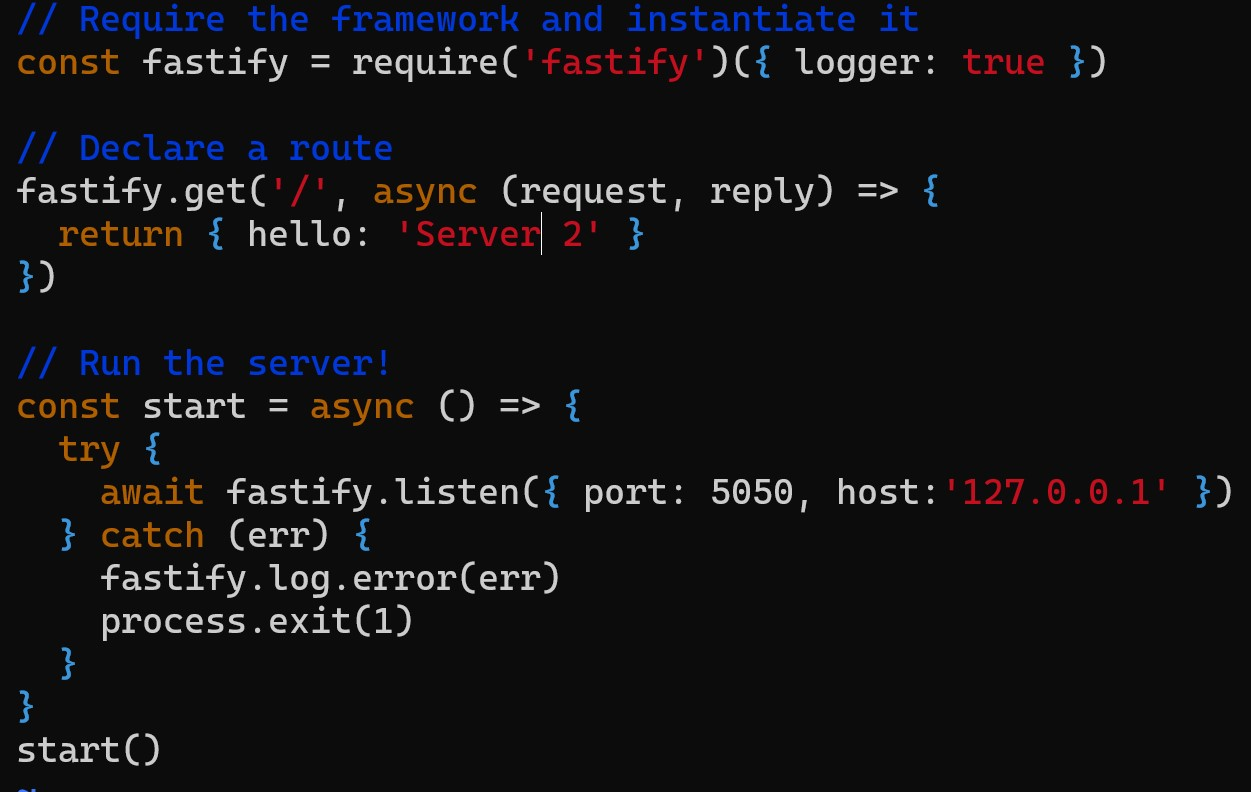
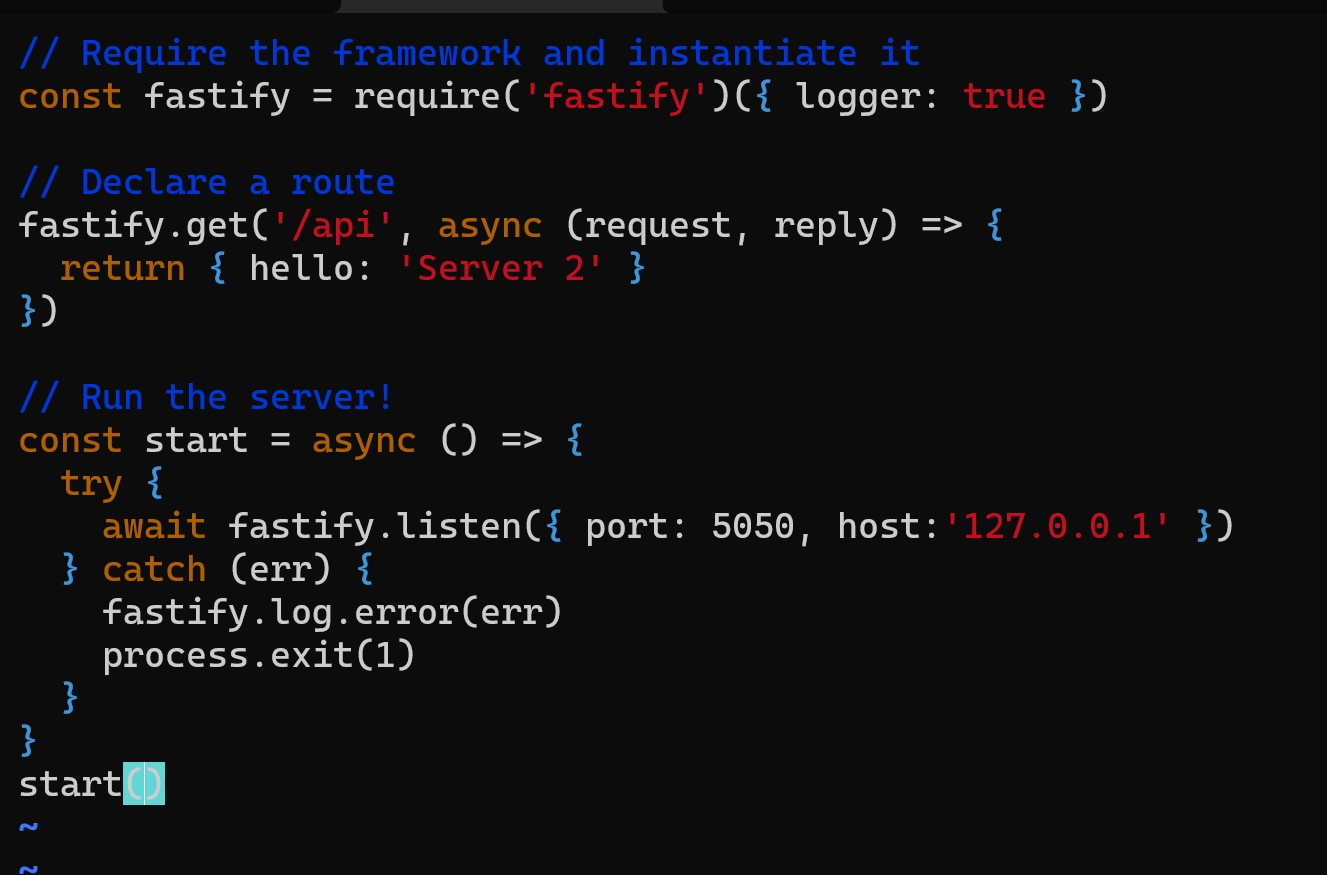
last update

Changed region(s): [[0.0, 0.4242, 0.9976, 1.0], [0.0, 0.0, 0.9041, 0.1515], [0.0, 0.1515, 0.7794, 0.3636]]

diff --git a/src/index.js b/src/index.js
@@ -2,7 +2,7 @@
 const fastify = require('fastify')({ logger: true })
 
 // Declare a route
-fastify.get('/', async (request, reply) => {
+fastify.get('/app', async (request, reply) => {
   return { hello: 'Server 2' }
 })
 

diff --git a/README.md b/README.md
@@ -108,7 +108,7 @@ step4_index.html
         npm install fastify 
 Create index.js file 
 
-![Image text](https://github.com/ericak611/2420_assign2/blob/main/Images/index.js.jpg?raw=true)
+![Image text](https://github.com/ericak611/2420_assign2/blob/main/Images/index.js.jpg?raw=true) 
 
 6. Move both your html and src directory to both of your servers via sftp
 
@@ -129,7 +129,7 @@ Create index.js file
 ### Step 7
 1. Create service file to start node application 
 
-![Image text](https://github.com/ericak611/2420_assign2/blob/main/Images/hello_web.jpg?raw=true)
+![Image text](https://github.com/ericak611/2420_assign2/blob/main/Images/hello_web.service.jpg?raw=true)
 
 ### Step 8
 1. Move Caddyfile and service file to both servers via sftp
@@ -158,5 +158,7 @@ Create index.js file
 ![Image text](https://github.com/ericak611/2420_assign2/blob/main/Images/working1.jpg?raw=true)
 
 ![Image text](https://github.com/ericak611/2420_assign2/blob/main/Images/working2.jpg?raw=true)
+
+![Image text](https://github.com/ericak611/2420_assign2/blob/main/Images/api2working.jpg?raw=true)
 
 load balancer ip address: http://24.199.71.54/
